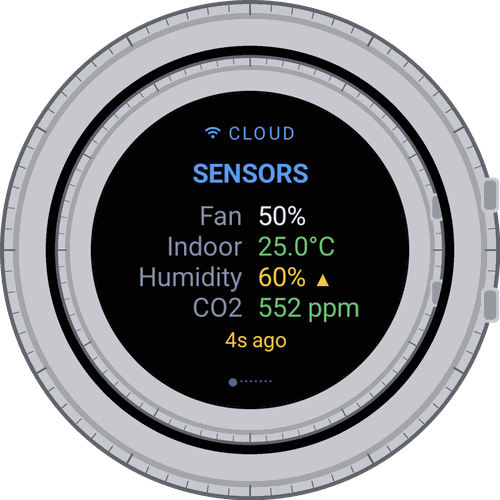
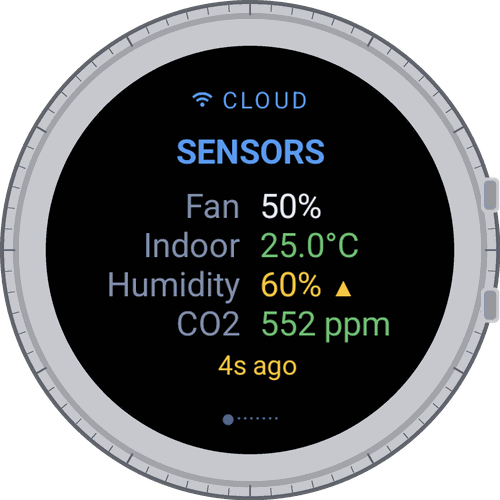
Wrist Control: laikrodziai be dvigubo remo

Changed region(s): [[0.09, 0.09, 0.9, 0.9]]

diff --git a/wristcontrol/index.html b/wristcontrol/index.html
@@ -13,7 +13,7 @@
 <p class="lead">A Wear OS app for Vallox heat recovery ventilation. See how fresh the air is, switch
 modes in two taps, and let the app tune the unit to the way your home breathes.</p>
 
-<div class="ekranai"><img src="img/sensors.png" alt="SENSORS page on the watch: fan, indoor temperature, humidity and CO2" loading="lazy"><img class="vidurys" src="img/optimize_page.png" alt="OPTIMIZE page on the watch" loading="lazy"><img src="img/stats_page.png" alt="STATISTICS page on the watch: share of time in the green CO2 zone" loading="lazy"></div>
+<div class="ekranai"><img src="img/sensors.png?v=2" alt="SENSORS page on the watch: fan, indoor temperature, humidity and CO2" loading="lazy"><img class="vidurys" src="img/optimize_page.png?v=2" alt="OPTIMIZE page on the watch" loading="lazy"><img src="img/stats_page.png?v=2" alt="STATISTICS page on the watch: share of time in the green CO2 zone" loading="lazy"></div>
 
 <ul class="cards">
 <li><b>See your air</b>CO2, humidity and temperatures at a glance, coloured green, yellow or red.</li>
